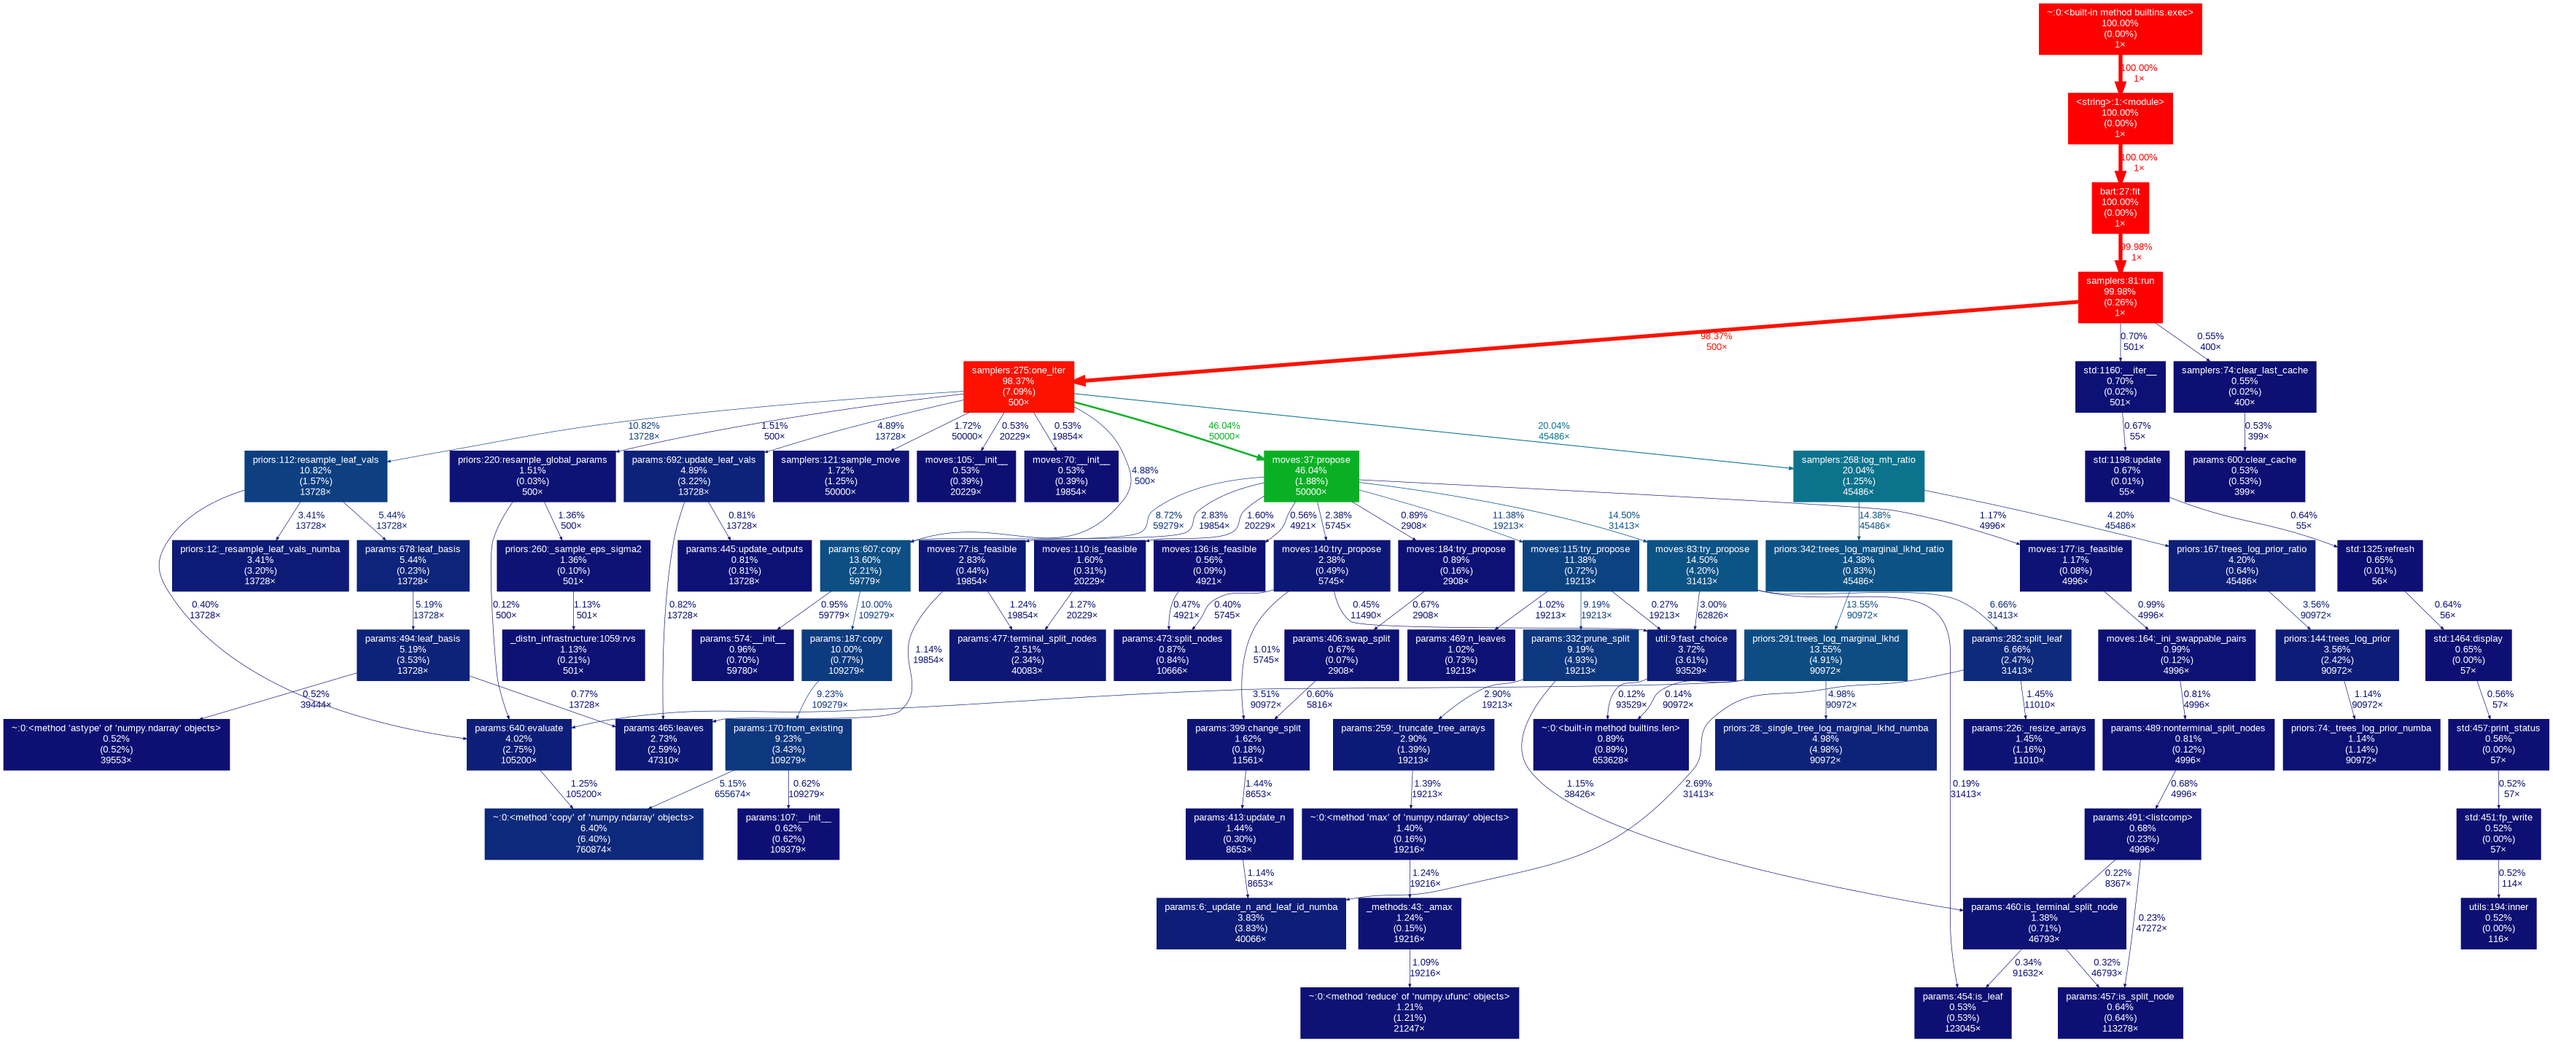
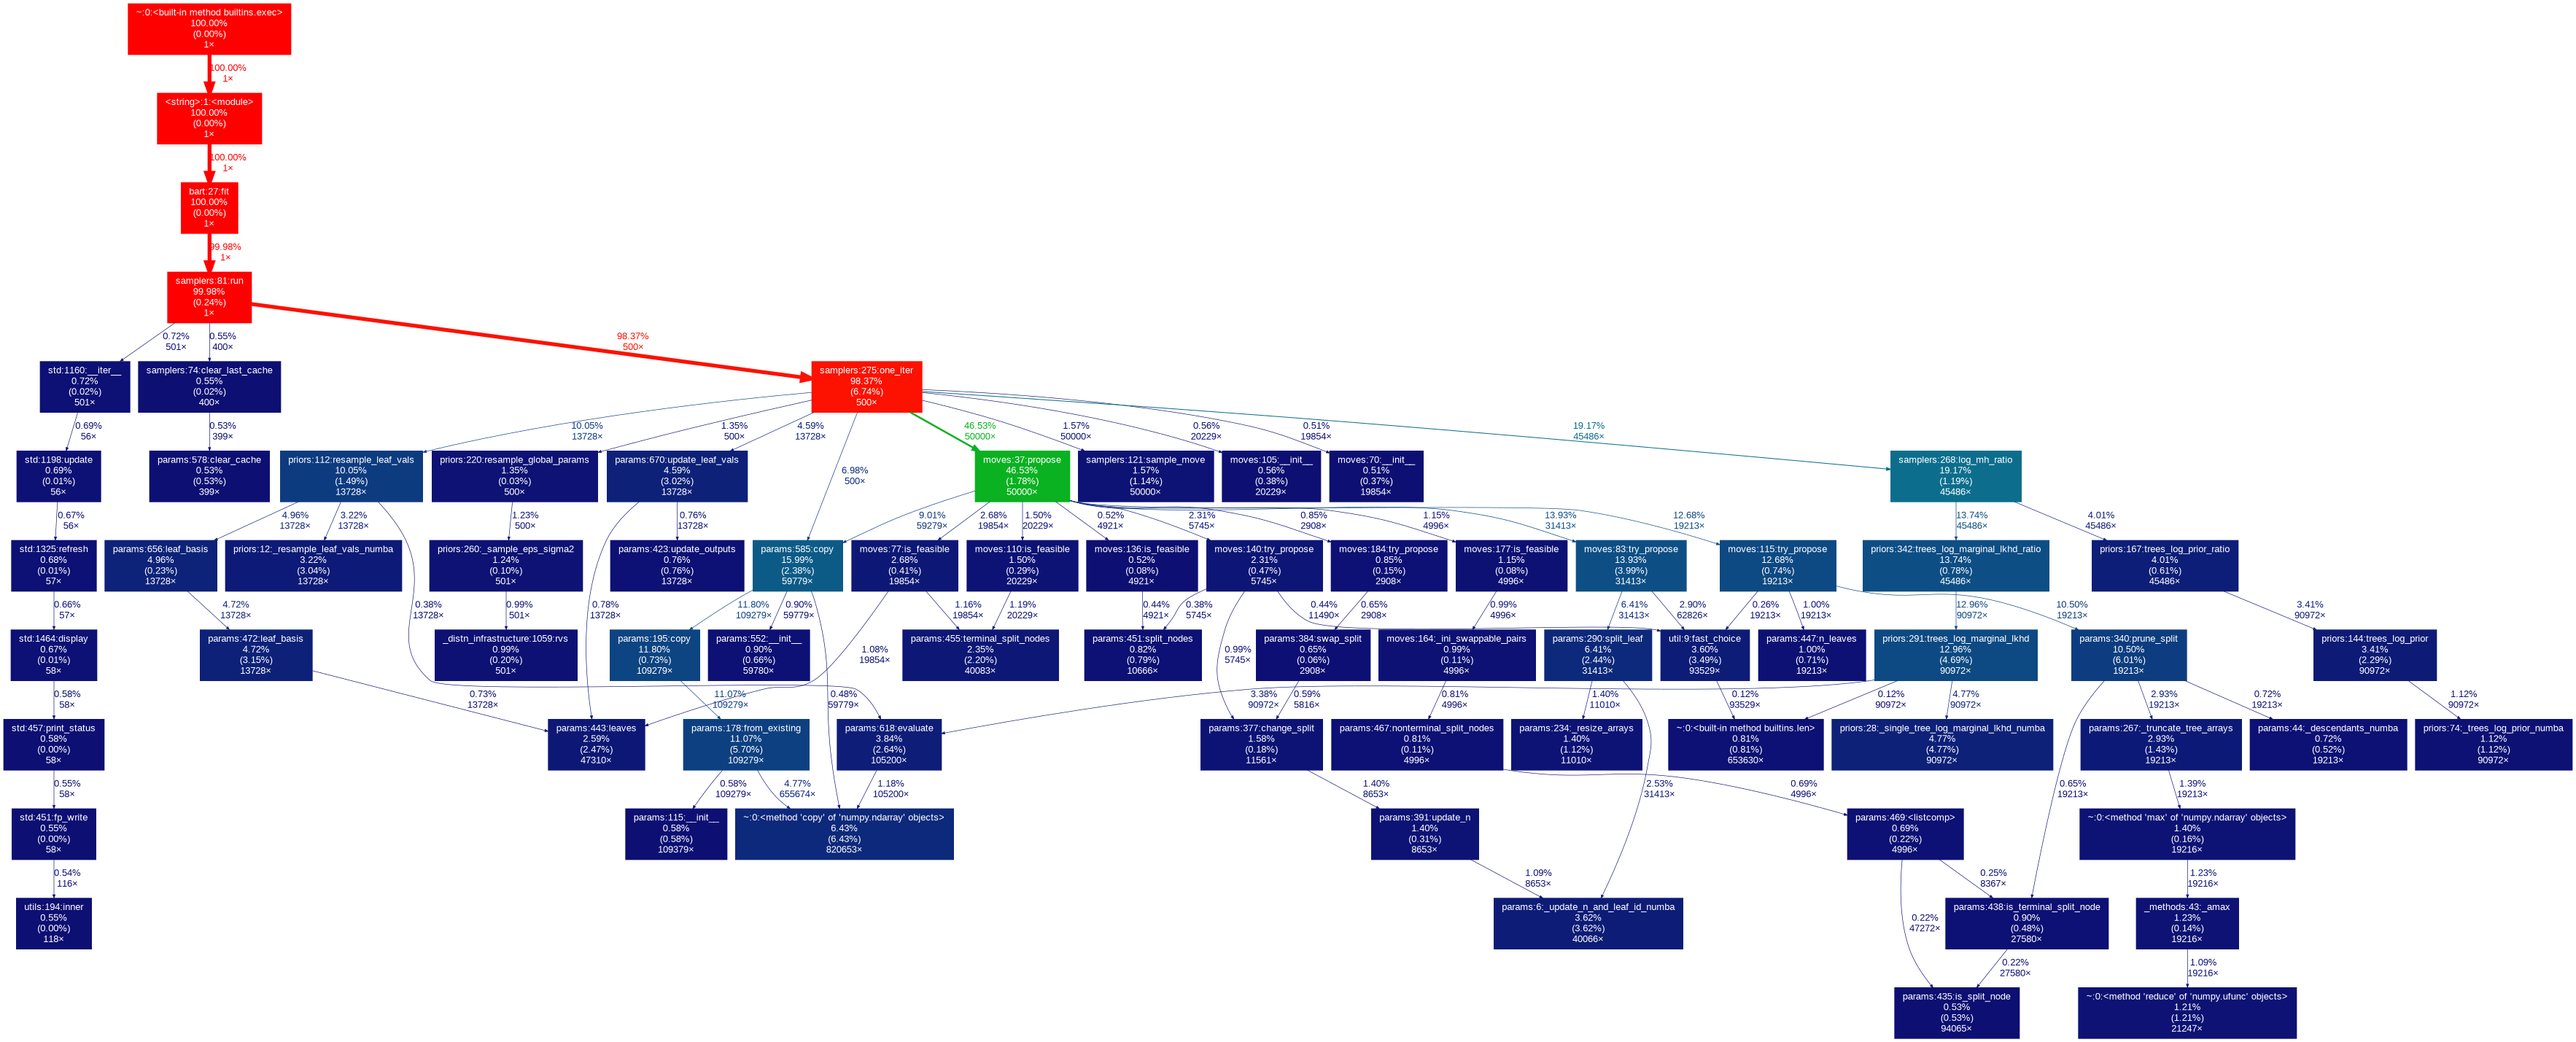
Simplify `prune_split`

diff --git a/bart_playground/params.py b/bart_playground/params.py
@@ -16,15 +16,13 @@ def _update_n_and_leaf_id_numba(starting_node, dataX, append: bool, vars, thresh
     leaf_ids = prev_leaf_id
     # If appending, we need to take the offset into account when accessing leaf_ids
     offset = prev_leaf_id.shape[0] - dataX.shape[0] if append else 0
+    desc = _descendants_numba(starting_node, vars)
     
-    subtree_nodes = np.empty(n_nodes, np.bool_)
-    for j in range(n_nodes):
-        if _is_in_subtree(j, starting_node):
-            subtree_nodes[j] = True
-            if not append:
-                n[j] = 0 # starting node is not updated
-        else:
-            subtree_nodes[j] = False
+    subtree_nodes = np.zeros(n_nodes, np.bool_)
+    for j in desc:
+        subtree_nodes[j] = True
+        if not append:
+            n[j] = 0 # starting node is not updated
     
     for i in range(dataX.shape[0]):
         current_node = leaf_ids[offset + i]
@@ -36,26 +34,36 @@ def _update_n_and_leaf_id_numba(starting_node, dataX, append: bool, vars, thresh
             
     # success = True if all updated n are > 0 else False
     success = True
-    for j in range(n_nodes):
-        if vars[j] == -1 and subtree_nodes[j] and n[j] <= 0:
+    for j in desc:
+        if n[j] <= 0:
             success = False
             break
 
     return success
 
-@njit(inline='always')
-def _is_in_subtree(node_id, ancestor_id):
-    # A node cannot be in the subtree of a node with a larger index
-    # in this binary tree representation.
-    # The ancestor node is not considered to be in its own subtree.
-    if node_id <= ancestor_id:
-        return False
+@njit
+def _descendants_numba(node_id: int, vars: NDArray[np.int32]):
+    """
+    Numba-optimized function to find all descendants of a given node in the tree.
+    """
+    subtree_nodes = np.empty(len(vars), np.int32)
+    queue_start = 0
+    queue_end = 1
+    subtree_nodes[queue_start] = node_id
+    while queue_start < queue_end:
+        current_node = subtree_nodes[queue_start]
+        queue_start += 1
+        # Add child nodes to the queue
+        left_child = current_node * 2 + 1
+        right_child = current_node * 2 + 2
+        if left_child < len(vars) and vars[left_child] > -2:
+            subtree_nodes[queue_end] = left_child
+            queue_end += 1
+        if right_child < len(vars) and vars[right_child] > -2:
+            subtree_nodes[queue_end] = right_child
+            queue_end += 1
     
-    current_node = node_id
-    while current_node > ancestor_id:
-        current_node = (current_node - 1) // 2
-    
-    return current_node == ancestor_id
+    return subtree_nodes[1:queue_end]
 
 @njit
 def _traverse_tree_numba(X: np.ndarray, vars: np.ndarray, thresholds: np.ndarray) -> np.ndarray:
@@ -347,51 +355,21 @@ class Tree:
         # Check if the node is a split node
         if not self.is_split_node(node_id):
             raise ValueError("Node is not a split node and cannot be pruned.")
+        
+        desc = _descendants_numba(node_id, self.vars)
 
-        # Use a stack to manage nodes to prune
-        stack = [node_id]
+        for this_node in desc:
+            self.vars[this_node] = -2  # Mark all descendant nodes as pruned
+            self.thresholds[this_node] = np.nan
+            self.leaf_vals[this_node] = np.nan
+            if self.cache_exists:
+                self.n[this_node] = 0
+                self.leaf_ids[self.leaf_ids == this_node] = node_id  # Update leaf_ids for pruned nodes
 
-        # Store the original node .n
-        ori_n = self.n[node_id]
-
-        while stack:
-            current_node = stack.pop()
-
-            # Check if the current node is a terminal split node
-            if self.is_terminal_split_node(current_node):
-                # If terminal, directly prune its children
-                left_child = current_node * 2 + 1
-                right_child = current_node * 2 + 2
-                self.vars[left_child] = -2
-                self.vars[right_child] = -2
-                self.leaf_vals[left_child] = np.nan
-                self.leaf_vals[right_child] = np.nan
-
-                if self.cache_exists:
-                    self.n[left_child] = 0
-                    self.n[right_child] = 0
-                    # Update leaf_ids for samples that were in the pruned children
-                    self.leaf_ids[self.leaf_ids == left_child] = current_node
-                    self.leaf_ids[self.leaf_ids == right_child] = current_node
-            elif not self.is_leaf(current_node):
-                # If not terminal or leaf, add children to the stack for further pruning
-                left_child = current_node * 2 + 1
-                right_child = current_node * 2 + 2
-
-                if left_child < len(self.vars):
-                    stack.append(left_child)
-                if right_child < len(self.vars):
-                    stack.append(right_child)
-
-            # After processing children, mark the current node as -2
-            self.vars[current_node] = -2
-            self.thresholds[current_node] = np.nan
-            self.leaf_vals[current_node] = np.nan
-            self.n[current_node] = 0
-
-        # Finally, turn the original node into a leaf and set the n correctly
+        # Turn the original node into a leaf
         self.vars[node_id] = -1
-        self.n[node_id] = ori_n
+        self.thresholds[node_id] = np.nan
+        self.leaf_vals[node_id] = np.nan # Leaf value to be determined later
 
         # Truncate unnecessary space in the tree arrays
         self._truncate_tree_arrays()
@@ -614,7 +592,7 @@ class Parameters:
         # because they only contain numerical values (which are immutable)
         return Parameters(trees=copied_trees, 
                           global_params=self.global_params.copy(), # shallow copy suffices
-                          cache=self.cache)
+                          cache=self.cache.copy() if self.cache is not None else None)
     
     def update_data(self, X_new):
         """
